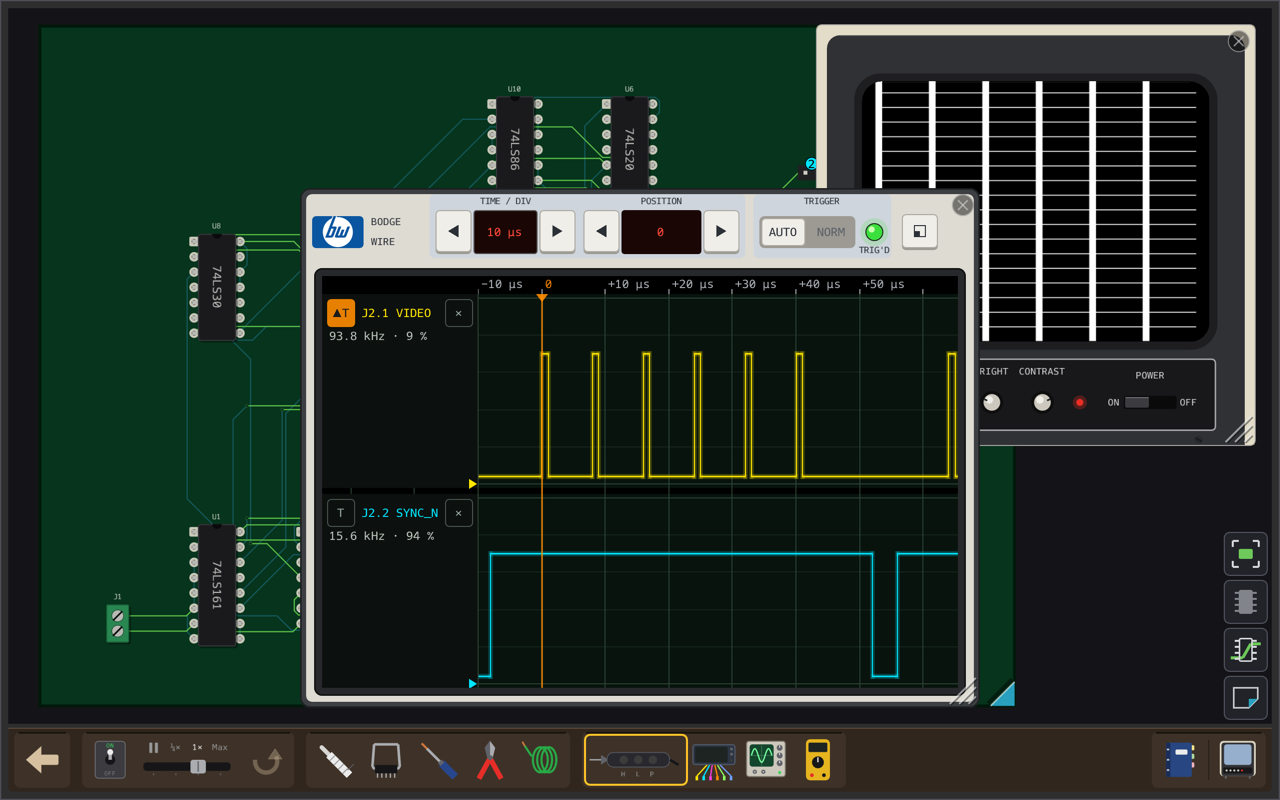
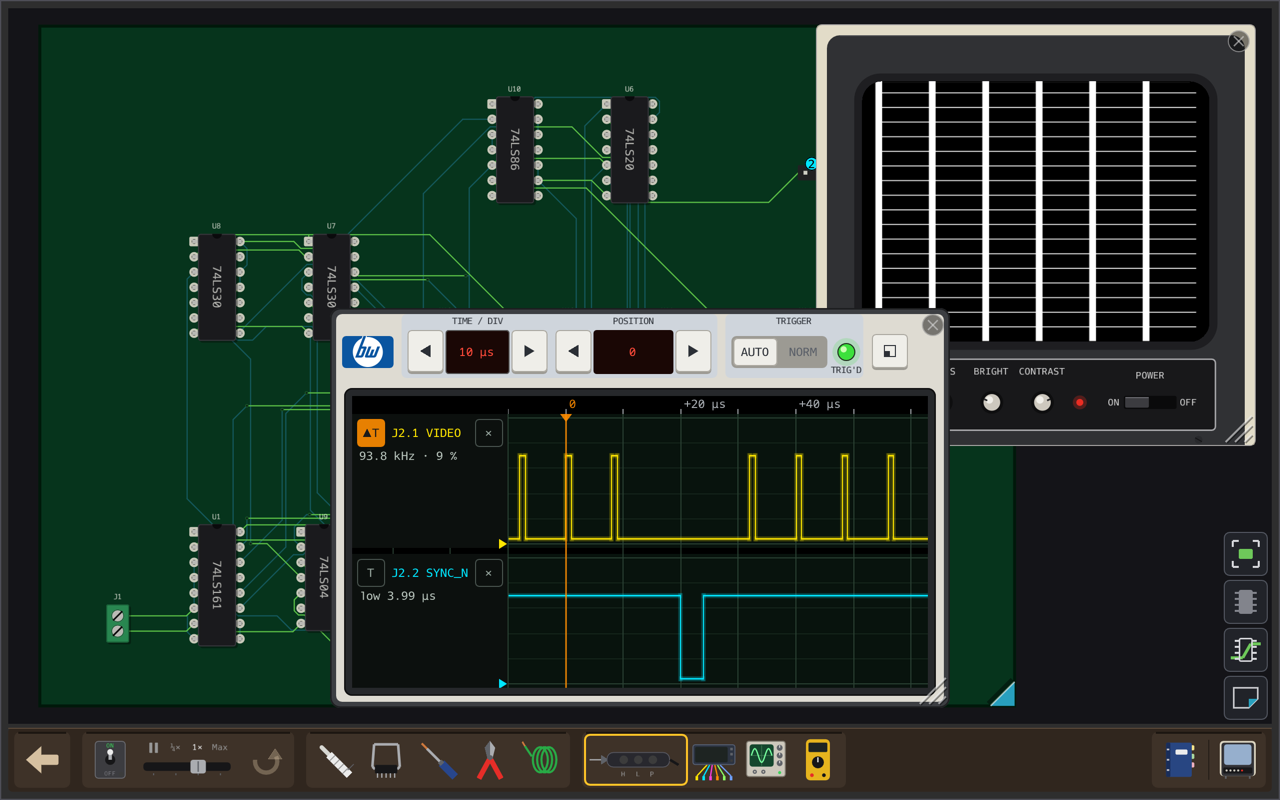
ui: the scope opens at its minimal size, 620 x 400 (P8h)
Checks: release `bench places|scope`; a screenshot with four Hooks;
README scope shot retaken.

Changed region(s): [[0.2188, 0.2188, 0.7812, 0.9062]]

diff --git a/src/ui/scope_window.cpp b/src/ui/scope_window.cpp
@@ -119,8 +119,9 @@ bool ScopeWindow::draw(bool& open, Session& session) {
         return false;
     }
     // A drawn case (P8h), as the TV is: no title bar, dragged by its body, resized freely.
-    const Extent normal = NormalSize(BenchObject::Scope);
-    PlaceNext(BenchObject::Scope, {normal.width, normal.height});
+    // It opens at its minimal size, the size key's normal and full sizes taller (2026-11-26).
+    const Extent opening = MinimalSize(BenchObject::Scope);
+    PlaceNext(BenchObject::Scope, {opening.width, opening.height});
     const Extent bench = BenchArea().extent();
     ImGui::SetNextWindowSizeConstraints(
         {std::min(kScopeMinWidth, bench.width), std::min(kScopeMinHeight, bench.height)},

diff --git a/tests/view/bench_places_test.cpp b/tests/view/bench_places_test.cpp
@@ -57,7 +57,7 @@ TEST_CASE(
     CHECK(keyboard.top > tv.bottom);
     CHECK(keyboard.right == Catch::Approx(tv.right - kViewLane));
 
-    const Box scope = Placed(BenchObject::Scope, NormalSize(BenchObject::Scope));
+    const Box scope = Placed(BenchObject::Scope, MinimalSize(BenchObject::Scope));
     CHECK((scope.left + scope.right) / 2 == Catch::Approx(kBench.width / 2));
     const Box analyzer = Placed(BenchObject::Analyzer, NormalSize(BenchObject::Analyzer));
     CHECK(analyzer.left == Catch::Approx(kBenchMargin));

diff --git a/docs/p8h-oscilloscope/OSCILLOSCOPE_PLAN.md b/docs/p8h-oscilloscope/OSCILLOSCOPE_PLAN.md
@@ -23,3 +23,4 @@ Spec: [OSCILLOSCOPE.md](OSCILLOSCOPE.md). Design: [OSCILLOSCOPE_DESIGN.md](OSCIL
 - 2026-11-26, phase 5: as designed; the dragged plate drawn last with an outline in its Hook's colour, clamped to the screen; an unhook in the same frame wins over a drop. Screenshots: a `--drag 386:604:0:-300` of QB's plate (QB at the top, its magenta kept, CLK still the Trigger); a `--tap` on a plate (nothing moves, its tooltip). The Board's numbers follow `order()` (phase 2), not shot again. Checks: release `^(session|scope)`.
 - 2026-11-26, phase 6: the three Service Manual setups by pin (040, 050, 060); GLOSSARY (Oscilloscope, Hook, the new Band, Marker, Stepper, Equipment's presets); ADD_INSTRUMENT.md (an instrument as a drawn case; controls over a canvas: `SetNextItemAllowOverlap`, changes after the drawing); `docs/readme/scope.png` regenerated and viewed (050: VIDEO `97.2 kHz · 10 %`, SYNC_N `low 3.99 µs`), README_SPEC's words still true; ARCHITECTURE's row. Speed: the 140 runs 0.26× with four Hooks and 0.26× without (its known limit on this host, PERFORMANCE.md: 0.265×; the plan's 1.00× was the wrong mark for it), UI 0.4 ms; the counter 1.00× with four Hooks, UI 0.3 ms. Left to the user: the web page's look, the mouse's snap, the keys' and the drag's feel. Checks: the full release suite.
 - 2026-11-26, after the step (the user): the badge moved to the strip's left, its words `BODGE` over `WIRE` (no `OSCILLOSCOPE`), shown from 667 px (the normal size too). Screenshots at the three sizes; `docs/readme/scope.png` retaken. Checks: release `scope layout`.
+- 2026-11-26, after the step (the user): the scope opens at its minimal size (620 × 400), not the normal 680 × 520; the size key still cycles minimal, normal, full. `docs/readme/scope.png` retaken.

diff --git a/docs/p8h-oscilloscope/OSCILLOSCOPE.md b/docs/p8h-oscilloscope/OSCILLOSCOPE.md
@@ -4,7 +4,7 @@ Roadmap step P8h (ARCHITECTURE.md#roadmap): the Oscilloscope's window rebuilt ar
 
 ![The scope with three Hooks, a Marker and the cursor](mockups/scope_3_hooks.svg)
 
-Mock-ups drawn by [mockups/scope_mock.py](mockups/scope_mock.py) (`python3 -I scope_mock.py` rewrites the SVGs beside it), not by the game: sizes and places are the bench's (680 × 520 normal, 620 × 400 minimal), fonts and colours approximate.
+Mock-ups drawn by [mockups/scope_mock.py](mockups/scope_mock.py) (`python3 -I scope_mock.py` rewrites the SVGs beside it), not by the game: sizes and places are the bench's (680 × 520 normal, 620 × 400 minimal, the size it opens at since 2026-11-26), fonts and colours approximate.
 
 ## Why
 
